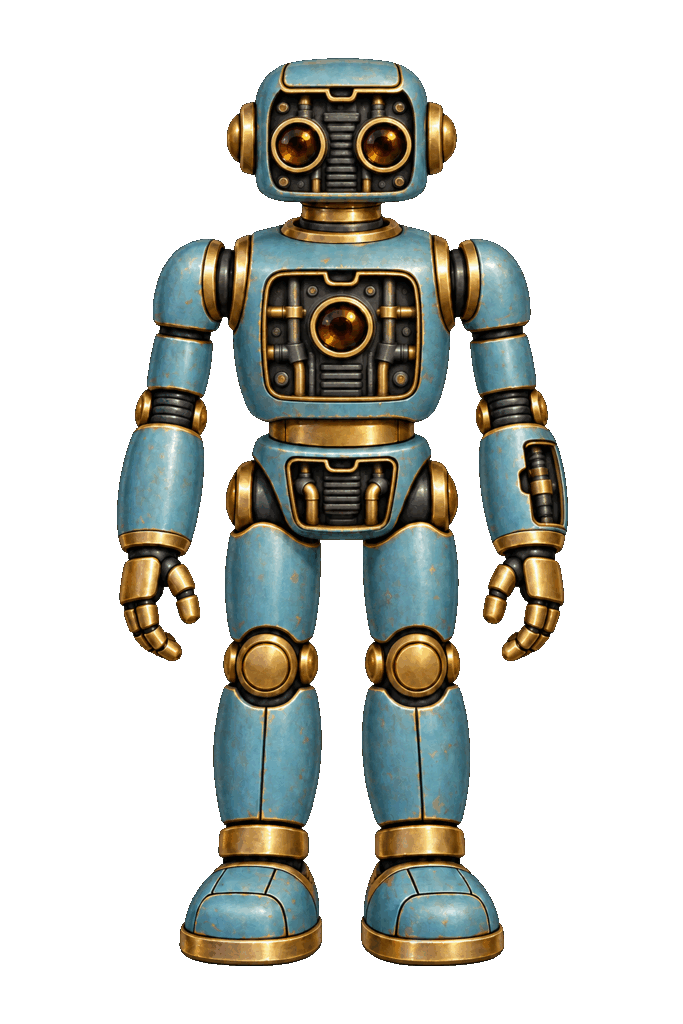
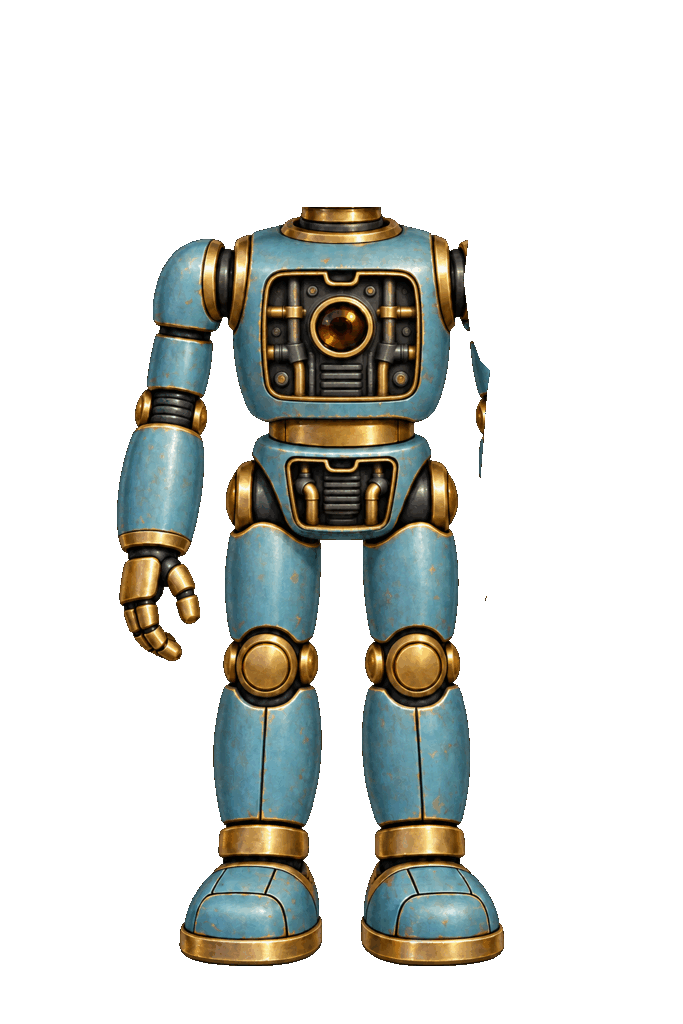
Separate robot head for activation animation

Changed region(s): [[0.3075, 0.0312, 0.6764, 0.2188], [0.6764, 0.2188, 0.8302, 0.6562]]

diff --git a/Assets/Scripts/Prototype/ToyRobotLevelBootstrap.cs b/Assets/Scripts/Prototype/ToyRobotLevelBootstrap.cs
@@ -60,12 +60,21 @@ namespace ScrewPuzzle
             {
                 headRoot = new GameObject("Head Assembly").transform;
                 headRoot.SetParent(robotRoot, false);
-                headRoot.localPosition = new Vector3(0f, 2.21f, 0f);
+                headRoot.localPosition = new Vector3(0f, 2.33f, 0f);
+
+                PrototypeLevelBuilder.CreateResourceSprite(
+                    "Head Structure",
+                    headRoot,
+                    Vector3.zero,
+                    "Art/ToyRobot/Head_Structure",
+                    new Vector2(1.46f, 1f),
+                    Color.white,
+                    3);
 
                 headHousing = PrototypeLevelBuilder.CreateResourceSprite(
                     "Head Housing",
                     headRoot,
-                    Vector3.zero,
+                    new Vector3(0f, -0.12f, 0f),
                     "Art/ToyRobot/Head_Housing",
                     new Vector2(1.08f, 0.72f),
                     Color.white,
@@ -74,14 +83,14 @@ namespace ScrewPuzzle
                 leftEye = PrototypeLevelBuilder.CreateCircle(
                     "Left Eye Glow",
                     headRoot,
-                    new Vector3(-0.25f, 0f, 0f),
+                    new Vector3(-0.25f, -0.11f, 0f),
                     0.15f,
                     unlitColor,
                     6).GetComponent<SpriteRenderer>();
                 rightEye = PrototypeLevelBuilder.CreateCircle(
                     "Right Eye Glow",
                     headRoot,
-                    new Vector3(0.25f, 0f, 0f),
+                    new Vector3(0.25f, -0.11f, 0f),
                     0.15f,
                     unlitColor,
                     6).GetComponent<SpriteRenderer>();
@@ -472,4 +481,3 @@ namespace ScrewPuzzle
         }
     }
 }
-
